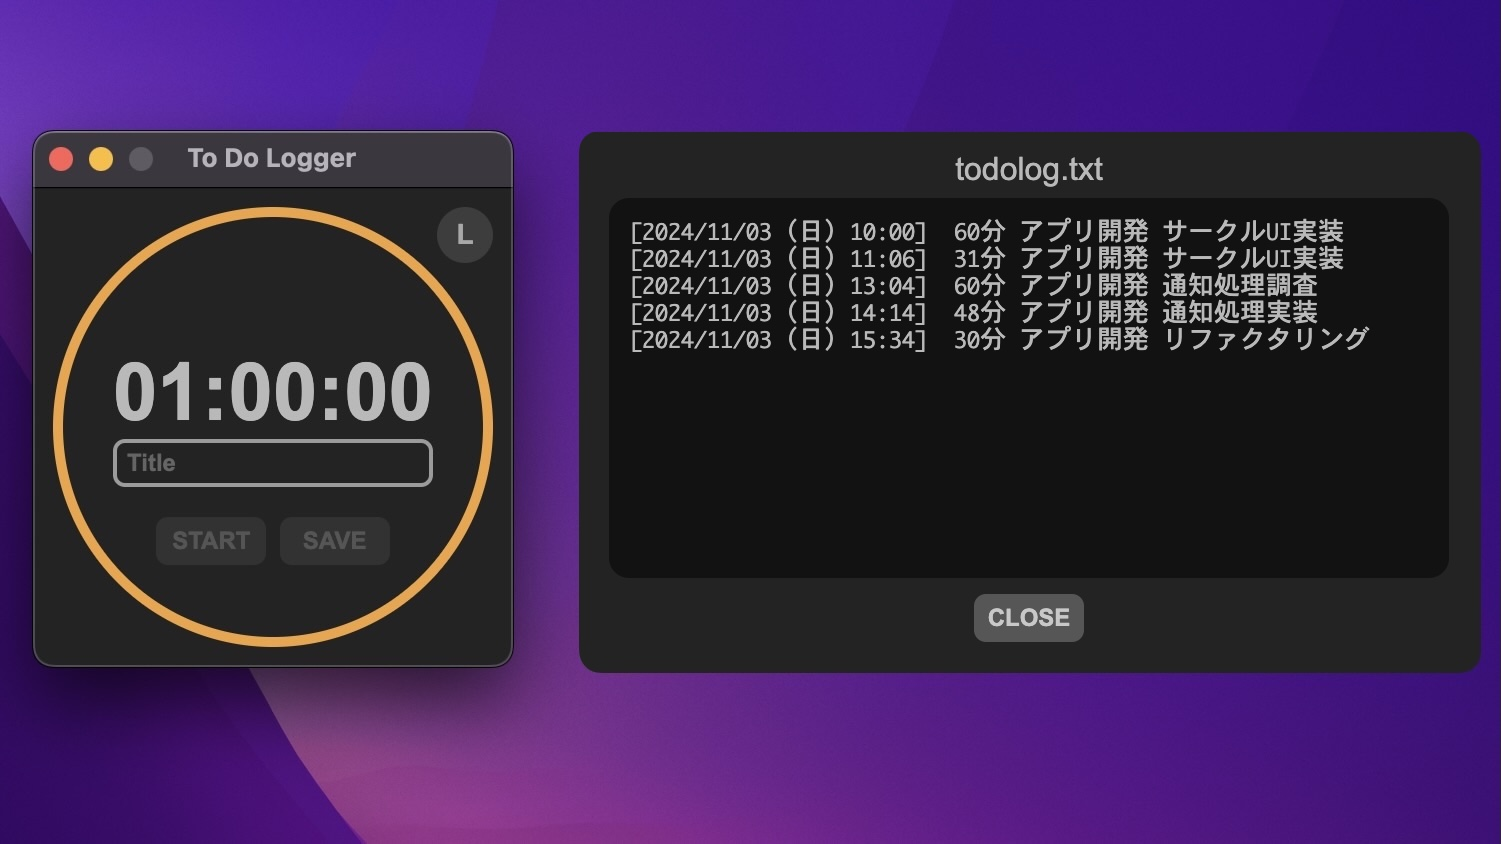
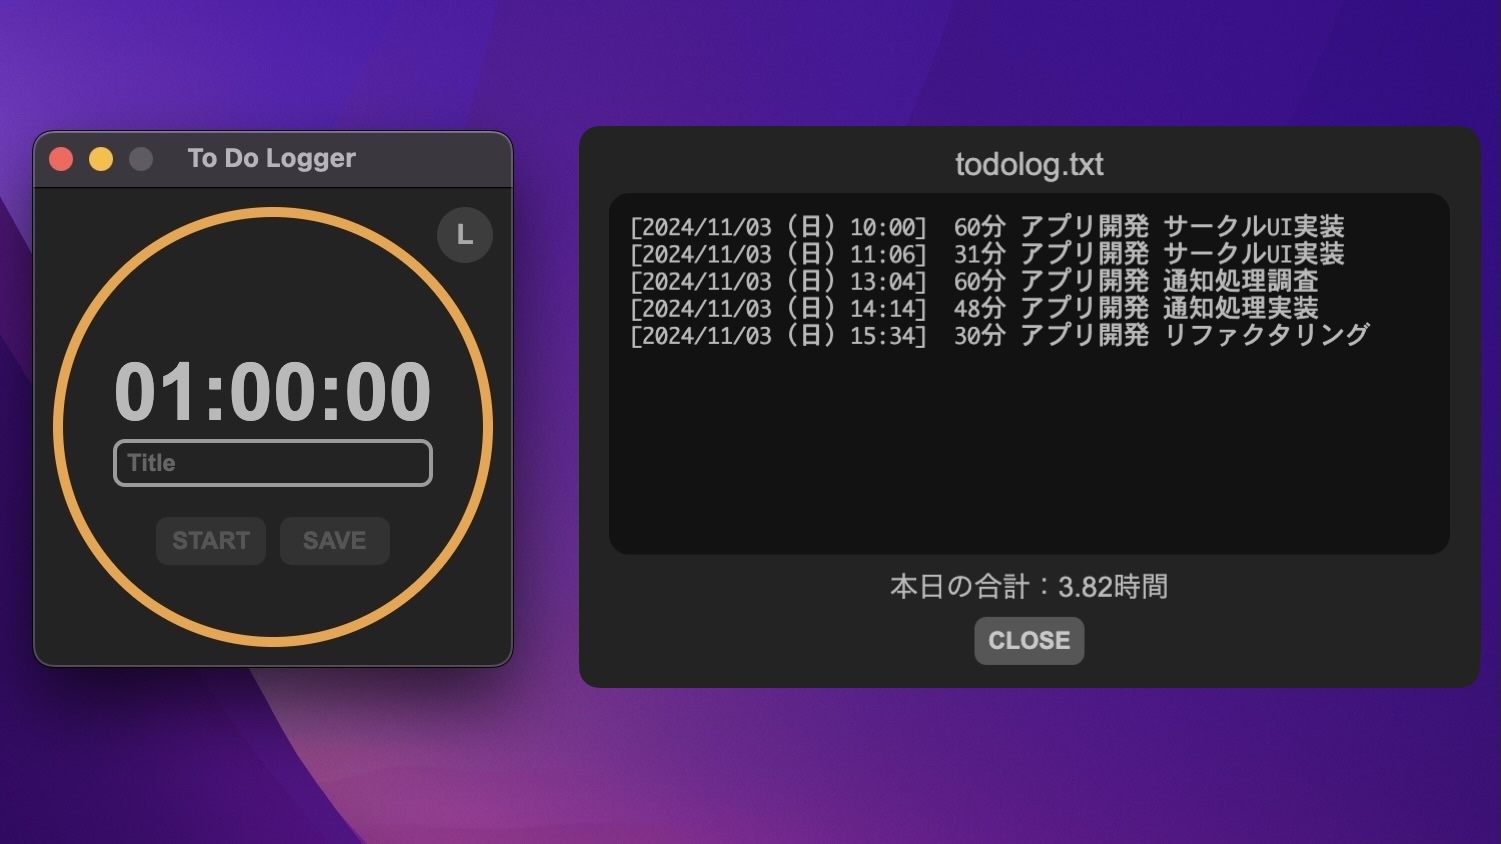
READMEの修正

Changed region(s): [[0.3984, 0.2464, 0.9194, 0.4313], [0.3678, 0.6777, 1.0, 0.8318], [0.3984, 0.1232, 0.9807, 0.2156]]

diff --git a/README.md b/README.md
@@ -79,7 +79,8 @@
 
   ![3](img/3.png)
 
-  ログは`'タイマー開始時間 タイマー時間 タイトル'`の形式で記録されます。
+  ログは`'タイマー開始時間 タイマー時間 タイトル'`の形式で記録されます。  
+  本日の合計時間が表示されます。  
 
 * アプリ設定  
   アプリの画面上で右クリックし、`Settings` をクリックすると設定画面が表示されます。  
